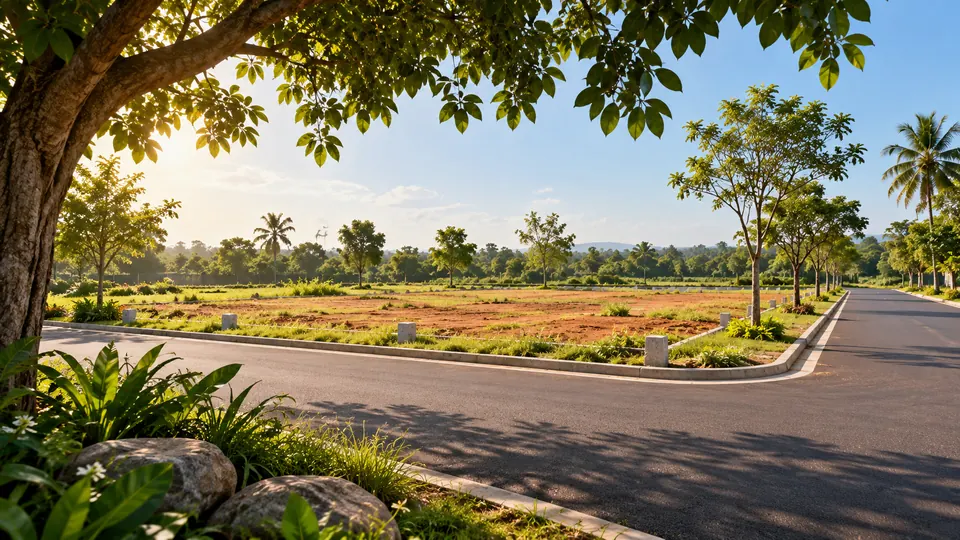
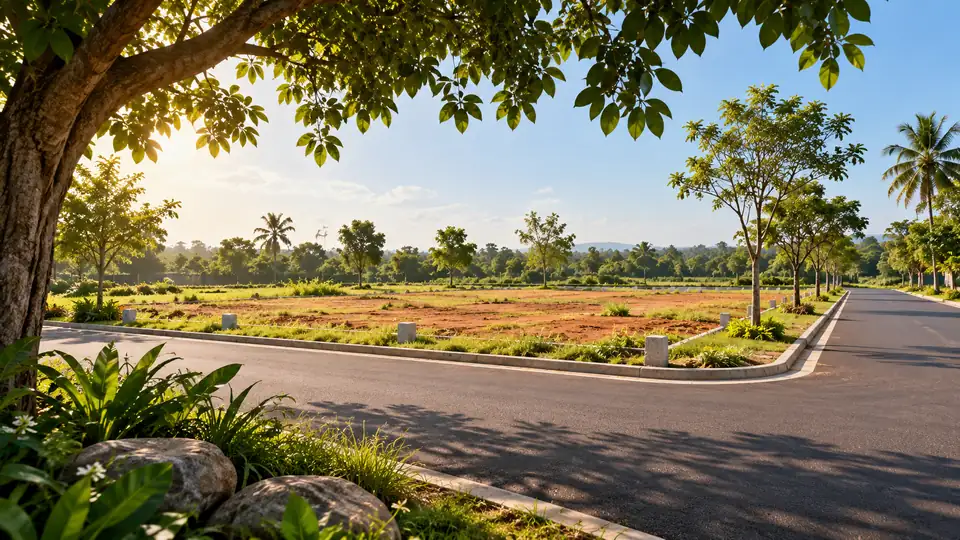
Fix stale-cache layout break and load scenes faster
- CSS/JS links carry ?v=<hash>: browsers can no longer pair new pages with an old cached stylesheet
  (this caused the giant overlapping footer headings on the live site)
- CSS/JS cached for a year since every change gets a new link
- Tiny blurred preview behind every big photo, so motion scenes appear instantly while the full image loads
- All scene photos re-encoded ~23% lighter (4.4 MB -> 3.4 MB)
- Brand splash shortened to 1 second

Claude-Session: https://claude.ai/code/session_0184qZ8PSPXvJn18ncJ8C3xT

diff --git a/index.html b/index.html
@@ -22,7 +22,7 @@
 <link rel="stylesheet" href="https://fonts.googleapis.com/css2?family=Bodoni+Moda:ital,opsz,wght@0,6..96,400;0,6..96,500;1,6..96,400&family=Manrope:wght@400;500;600&family=JetBrains+Mono:wght@400;500&family=Noto+Sans+Tamil:wght@400;500&display=swap" media="print" onload="this.media='all'">
 <noscript><link rel="stylesheet" href="https://fonts.googleapis.com/css2?family=Bodoni+Moda:ital,opsz,wght@0,6..96,400;0,6..96,500;1,6..96,400&family=Manrope:wght@400;500;600&family=JetBrains+Mono:wght@400;500&family=Noto+Sans+Tamil:wght@400;500&display=swap"></noscript>
 <script>try{if(sessionStorage.getItem("siva-in"))document.documentElement.classList.add("no-splash");sessionStorage.setItem("siva-in","1")}catch(e){}</script>
-<link rel="stylesheet" href="assets/css/main.css">
+<link rel="stylesheet" href="assets/css/main.css?v=9a428de6">
 <link rel="preload" as="image" href="assets/img/ground-960.webp" imagesrcset="assets/img/ground-960.webp 960w, assets/img/ground.webp 1536w" imagesizes="110vw" fetchpriority="high">
 
 <script type="application/ld+json">
@@ -91,11 +91,11 @@
 <section class="hero hero2 hero3" id="hero" aria-label="Introduction">
     <div class="stage">
       <div class="layer l-ground" id="lGround" aria-hidden="true"><div class="frame" style="--fx:0.500;--fy:0.528;--pfx:0.750;--pfy:0.556">
-        <img src="assets/img/ground-960.webp" srcset="assets/img/ground-960.webp 960w, assets/img/ground.webp 1536w" sizes="110vw" alt="" width="1536" height="864" fetchpriority="high">
[1 lines of base64/hex data omitted]
         <svg class="sunfx" viewBox="0 0 1280 720" preserveAspectRatio="none"><defs><radialGradient id="sunG"><stop offset="0" stop-color="#FFF4C8" stop-opacity=".95"/><stop offset=".18" stop-color="#FFC45A" stop-opacity=".55"/><stop offset="1" stop-color="#FF8A3D" stop-opacity="0"/></radialGradient></defs><circle id="sunGlow" cx="993" cy="205" r="210" fill="url(#sunG)"/></svg>
       </div></div>
       <div class="layer l-aerial" id="lAerial" aria-hidden="true"><div class="frame" style="--fx:0.500;--fy:0.556;--pfx:0.688;--pfy:0.722">
-        <img data-src="assets/img/aerial.webp" srcset="assets/img/aerial-960.webp 960w, assets/img/aerial.webp 1536w" sizes="100vw" data-srcset="assets/img/aerial-960.webp 960w, assets/img/aerial.webp 1536w" sizes="110vw" alt="" width="1536" height="864" decoding="async">
[1 lines of base64/hex data omitted]
         <svg class="survey" id="survey" viewBox="0 0 1280 720" preserveAspectRatio="none">
           <polygon id="plotC" class="bound" points="835,512 1105,592 1040,672 742,563"/>
           <polygon id="plotCfill" class="bfill" points="835,512 1105,592 1040,672 742,563"/>
@@ -106,7 +106,7 @@
         <div class="scanline" id="scan"></div>
       </div></div>
       <div class="layer l-top" id="lTop" aria-hidden="true"><div class="frame" style="--fx:0.500;--fy:0.500;--pfx:0.828;--pfy:0.750">
-        <img data-src="assets/img/topdown.webp" data-srcset="assets/img/topdown-960.webp 960w, assets/img/topdown.webp 1536w" sizes="110vw" alt="" width="1536" height="864" decoding="async">
[1 lines of base64/hex data omitted]
         <svg class="plan" id="heroPlan" viewBox="0 0 1672 941" preserveAspectRatio="none">
           <g class="plan-plots"></g>
           <g class="plan-labels"><text x="470" y="462">40 FT MAIN ROAD</text><text x="1290" y="462">40 FT MAIN ROAD</text><text x="822" y="250" transform="rotate(-90 822 250)">30 FT ROAD</text><text x="822" y="720" transform="rotate(-90 822 720)">30 FT ROAD</text></g>
@@ -213,7 +213,7 @@
   <section class="spot" id="spotlight" aria-label="Plot of the week">
     <div class="spot-stage">
       <div class="spot-media" id="spotMedia"><div class="frame" style="--fx:.547;--fy:.5;--pfx:.5;--pfy:.5">
-        <img src="assets/img/cornerpin.webp" srcset="assets/img/cornerpin-960.webp 960w, assets/img/cornerpin.webp 1536w" sizes="100vw" alt="Corner plot with granite boundary stones at a road junction, marked with a gold outline" width="1536" height="864" loading="lazy">
[1 lines of base64/hex data omitted]
         <svg class="spot-svg" viewBox="0 0 1672 941" preserveAspectRatio="none" aria-hidden="true">
           <polygon id="spotBound" points="165,190 775,58 1480,458 825,785"/>
           <g class="spot-stones"><circle cx="153" cy="187" r="9"/><circle cx="773" cy="51" r="9"/><circle cx="1491" cy="460" r="9"/><circle cx="824" cy="793" r="9"/></g>
@@ -240,7 +240,7 @@
   <section class="built" id="built" aria-label="Infrastructure in our layouts">
     <div class="built-stage">
       <div class="built-media">
-        <div class="frame" style="--fx:.547;--fy:.556;--pfx:.547;--pfy:.556"><img src="assets/img/dayroad.webp" srcset="assets/img/dayroad-960.webp 960w, assets/img/dayroad.webp 1536w" sizes="100vw" alt="A finished layout road with tar surface, street lights, avenue trees and granite boundary stones" width="1536" height="864" loading="lazy">
[1 lines of base64/hex data omitted]
         <div class="callouts"><div class="co co-r" style="--x:11.96%;--y:70.14%;--i:0"><span class="co-dot"></span><span class="co-line"></span><div class="co-card"><b>Granite boundary stones</b><span>Every corner fixed to the FMB sketch</span></div></div><div class="co co-r" style="--x:60.41%;--y:85.02%;--i:1"><span class="co-dot"></span><span class="co-line"></span><div class="co-card"><b>40 ft tar road</b><span>Laid and rolled before plots go on sale</span></div></div><div class="co co-l" style="--x:68.06%;--y:26.14%;--i:2"><span class="co-dot"></span><span class="co-line"></span><div class="co-card"><b>Street lights</b><span>On every internal road</span></div></div><div class="co co-l" style="--x:93.00%;--y:15.94%;--i:3"><span class="co-dot"></span><span class="co-line"></span><div class="co-card"><b>Avenue trees</b><span>Shade on both sides of the road</span></div></div><div class="co co-r" style="--x:36.48%;--y:68.01%;--i:4"><span class="co-dot"></span><span class="co-line"></span><div class="co-card"><b>Kerb-lined edges</b><span>Clean plot frontage, no erosion</span></div></div></div></div>
       </div>
       <div class="built-shade"></div>
@@ -256,10 +256,10 @@
     <div class="g-stage">
       <div class="wrap g-head"><p class="eyebrow">Our layouts, in every light</p><h2>Walk through <em>the land.</em></h2></div>
       <div class="g-track" id="gTrack">
-        <article class="g-card"><div class="g-img"><img src="assets/img/mistylayout.webp" alt="Gingee Hill View Plots" width="1536" height="864" loading="lazy"></div>
-          <div class="g-cap"><span class="g-n">01</span><p class="eyebrow">Dawn over the hills</p><h3>Gingee Hill View Plots</h3><p>Morning mist, the lake and the Gingee hills behind every plot.</p></div></article><article class="g-card"><div class="g-img"><img src="assets/img/parklayout.webp" alt="Sivasakthi Park Avenue" width="1536" height="864" loading="lazy"></div>
-          <div class="g-cap"><span class="g-n">02</span><p class="eyebrow">A park at the centre</p><h3>Sivasakthi Park Avenue</h3><p>Plots around a landscaped roundabout park with avenue palms.</p></div></article><article class="g-card"><div class="g-img"><img src="assets/img/stonesunset.webp" alt="Koliyanur Red Soil Plots" width="1536" height="864" loading="lazy"></div>
-          <div class="g-cap"><span class="g-n">03</span><p class="eyebrow">Stones set at sunrise</p><h3>Koliyanur Red Soil Plots</h3><p>Fresh red soil, every plot corner marked with a granite stone.</p></div></article><article class="g-card"><div class="g-img"><img src="assets/img/shadeplot.webp" alt="Valavanur Tree View Plots" width="1536" height="864" loading="lazy"></div>
[4 lines of base64/hex data omitted]
           <div class="g-cap"><span class="g-n">04</span><p class="eyebrow">Shade on the frontage</p><h3>Valavanur Tree View Plots</h3><p>Wide tar road, kerbs and full-grown trees along the plots.</p></div></article>
         <article class="g-card g-end"><div class="g-endin"><p class="eyebrow">Want to see it in person?</p><h3>We'll take you to the site this week.</h3><a class="btn gold magnetic" href="https://wa.me/919585178509?text=Hello%20Sivasakthi%20Real%20Agencies%2C%20I%20would%20like%20a%20site%20visit." target="_blank" rel="noopener">Book a site visit</a></div></article>
       </div>
@@ -269,8 +269,8 @@
   <section class="dream" id="dream" aria-label="Plan your home">
     <div class="dream-stage">
       <div class="dream-media" id="dreamMedia"><div class="frame" style="--fx:.594;--fy:.458;--pfx:.672;--pfy:.458">
-        <img class="d-base" src="assets/img/wireframe.webp" srcset="assets/img/wireframe-960.webp 960w, assets/img/wireframe.webp 1536w" sizes="100vw" alt="" width="1536" height="864" loading="lazy" aria-hidden="true">
-        <img class="d-lit" id="dreamLit" src="assets/img/wireframe.webp" srcset="assets/img/wireframe-960.webp 960w, assets/img/wireframe.webp 1536w" sizes="100vw" alt="A plot with a glowing outline of a two-storey home drawn on it" width="1536" height="864" loading="lazy">
[2 lines of base64/hex data omitted]
         <svg class="dream-svg" viewBox="0 0 1672 941" preserveAspectRatio="none" aria-hidden="true">
           <g class="dl" style="--i:0"><circle cx="1110" cy="250" r="6"/><line x1="1110" y1="250" x2="1280" y2="170"/><text x="1290" y="166">SAMPLE HOME</text><text x="1290" y="192">2 FLOORS · 2,400 SQ.FT</text></g>
           <g class="dl" style="--i:1"><circle cx="700" cy="560" r="6"/><line x1="700" y1="560" x2="800" y2="690"/><text x="810" y="712">YOUR PLOT · 40 × 60 FT</text></g>
@@ -288,7 +288,7 @@
   </section>
   <section class="block docs" aria-label="Land document checklist">
     <div class="wrap docs-grid">
-      <figure class="docs-img"><img src="assets/img/stoneclose.webp" alt="Granite boundary stone set in fresh soil at the corner of a plot" loading="lazy"><figcaption>Boundary stone, plot B-01</figcaption></figure>
[1 lines of base64/hex data omitted]
       <div>
         <p class="eyebrow">Before we list or buy any land</p>
         <h2 style="margin-top:16px">Eight papers. <em>Every time.</em></h2>
@@ -307,7 +307,7 @@
     </div>
   </section>
   <section class="inside" aria-label="Why land">
-    <div class="bg" id="insideBg"><img src="assets/img/wetroad.webp" alt="Wet layout road after monsoon rain, lit by garden lights at dusk" loading="lazy"></div>
[1 lines of base64/hex data omitted]
     <canvas id="rain2" aria-hidden="true"></canvas>
     <div class="veil"></div>
     <div class="wrap">
@@ -326,7 +326,7 @@
         <p class="lede">Free site visit and valuation for plots, farm land and houses around Villupuram.</p>
         <a class="btn gold magnetic" href="sell.html" style="justify-self:start">Get a free valuation <svg viewBox="0 0 24 24" fill="none" stroke="currentColor" stroke-width="1.6" aria-hidden="true"><path d="M5 12h14M13 6l6 6-6 6"/></svg></a>
       </div>
-      <figure><img src="assets/img/stonesunset.webp" alt="Plots marked with boundary stones at sunrise" loading="lazy" width="1600" height="900"></figure>
[1 lines of base64/hex data omitted]
     </div></div>
   </section>
   <section class="block office" id="contact" aria-label="Visit or call">
@@ -349,7 +349,7 @@
     </div>
   </section>
   <section class="block closing night-close">
-    <div class="bgc night" aria-hidden="true"><img src="assets/img/nightlayout.webp" srcset="assets/img/nightlayout-960.webp 960w, assets/img/nightlayout.webp 1536w" sizes="100vw" alt="" loading="lazy" width="1536" height="864"><canvas id="nightFx"></canvas></div>
[1 lines of base64/hex data omitted]
     <div class="wrap">
       <p lang="ta" class="eyebrow ta" style="letter-spacing:.04em;text-transform:none;font-size:.95rem">வீடு · மனை · நிலம் — வாங்க, விற்க அணுகவும்</p>
       <h2>Your land, <em>handled.</em></h2>
@@ -378,10 +378,10 @@
 <a class="wa" href="https://wa.me/919585178509" target="_blank" rel="noopener" aria-label="Chat on WhatsApp">
   <svg viewBox="0 0 24 24" fill="currentColor"><path d="M12 2a10 10 0 0 0-8.6 15.1L2 22l5-1.3A10 10 0 1 0 12 2Zm0 18.2a8.2 8.2 0 0 1-4.2-1.1l-.3-.2-3 .8.8-2.9-.2-.3A8.2 8.2 0 1 1 12 20.2Zm4.5-6.1c-.2-.1-1.5-.7-1.7-.8s-.4-.1-.6.1-.6.8-.8 1-.3.2-.5.1a6.7 6.7 0 0 1-3.3-2.9c-.3-.4.3-.4.8-1.4a.5.5 0 0 0 0-.5l-.8-1.8c-.2-.5-.4-.4-.6-.4h-.5a1 1 0 0 0-.7.3 3 3 0 0 0-.9 2.2 5.2 5.2 0 0 0 1.1 2.8 11.9 11.9 0 0 0 4.6 4c1.7.7 2.3.8 3.2.7a2.7 2.7 0 0 0 1.8-1.3 2.2 2.2 0 0 0 .1-1.3c0-.1-.2-.2-.5-.3Z"/></svg>
 </a>
-<script src="assets/js/data.js" defer></script>
-<script src="assets/js/core.js" defer></script>
-<script src="assets/js/hero.js" defer></script>
-<script src="assets/js/scenes.js" defer></script>
-<script src="assets/js/offers.js" defer></script>
+<script src="assets/js/data.js?v=fbedc2b7" defer></script>
+<script src="assets/js/core.js?v=46c4fe64" defer></script>
+<script src="assets/js/hero.js?v=29b42697" defer></script>
+<script src="assets/js/scenes.js?v=5e03a516" defer></script>
+<script src="assets/js/offers.js?v=01bc236b" defer></script>
 </body>
 </html>

diff --git a/contact.html b/contact.html
@@ -22,7 +22,7 @@
 <link rel="stylesheet" href="https://fonts.googleapis.com/css2?family=Bodoni+Moda:ital,opsz,wght@0,6..96,400;0,6..96,500;1,6..96,400&family=Manrope:wght@400;500;600&family=JetBrains+Mono:wght@400;500&family=Noto+Sans+Tamil:wght@400;500&display=swap" media="print" onload="this.media='all'">
 <noscript><link rel="stylesheet" href="https://fonts.googleapis.com/css2?family=Bodoni+Moda:ital,opsz,wght@0,6..96,400;0,6..96,500;1,6..96,400&family=Manrope:wght@400;500;600&family=JetBrains+Mono:wght@400;500&family=Noto+Sans+Tamil:wght@400;500&display=swap"></noscript>
 <script>try{if(sessionStorage.getItem("siva-in"))document.documentElement.classList.add("no-splash");sessionStorage.setItem("siva-in","1")}catch(e){}</script>
-<link rel="stylesheet" href="assets/css/main.css">
+<link rel="stylesheet" href="assets/css/main.css?v=9a428de6">
 
 
 <script type="application/ld+json">
@@ -89,7 +89,7 @@
 </div>
 <main id="main">
 <section class="page-hero">
-  <div class="bg"><img src="assets/img/mistylayout.webp" alt="Aerial view of plots with misty hills and a lake at dawn" width="1600" height="900" fetchpriority="high"></div>
[1 lines of base64/hex data omitted]
   <canvas aria-hidden="true"></canvas>
   <div class="wrap">
     <p class="crumbs"><a href="index.html">Home</a><span aria-hidden="true">/</span><span>Contact</span></p>
@@ -107,7 +107,7 @@
   </section>
   <section class="block" style="padding-top:0" aria-label="Questions"><div class="wrap"><div class="head"><div><p class="eyebrow">Questions buyers ask</p><h2>Before you <em>buy land.</em></h2></div></div><div class="faq"><details><summary>What does DTCP approved mean?</summary><p>The layout has been approved by the Directorate of Town and Country Planning, Tamil Nadu. Roads, open space and plot sizes follow the rules, and banks give loans on approved plots more easily.</p></details><details><summary>Which documents should I check before buying land?</summary><p>Patta and chitta, Adangal or A-register, FMB sketch, a 30-year encumbrance certificate, the chain of parent sale deeds, and the layout approval number. We share copies of all of these before your site visit.</p></details><details><summary>Can I get a bank loan for a plot?</summary><p>Most banks give plot loans on DTCP or RERA approved plots with a clear title. Use the EMI calculator on the land page to plan, and we can help you with the paperwork.</p></details><details><summary>Do you help people sell their land?</summary><p>Yes. We visit the land, give a fair valuation based on recent registrations nearby, check your documents, and bring you serious buyers until registration is done.</p></details><details><summary>Can I see the land before paying anything?</summary><p>Yes. Call or WhatsApp us and we will fix a site visit. You see the land and the documents before any booking amount.</p></details></div></div></section>
   <section class="block closing night-close">
-    <div class="bgc night" aria-hidden="true"><img src="assets/img/nightlayout.webp" srcset="assets/img/nightlayout-960.webp 960w, assets/img/nightlayout.webp 1536w" sizes="100vw" alt="" loading="lazy" width="1536" height="864"><canvas id="nightFx"></canvas></div>
[1 lines of base64/hex data omitted]
     <div class="wrap">
       <p lang="ta" class="eyebrow ta" style="letter-spacing:.04em;text-transform:none;font-size:.95rem">வீடு · மனை · நிலம் — வாங்க, விற்க அணுகவும்</p>
       <h2>Your land, <em>handled.</em></h2>
@@ -136,8 +136,8 @@
 <a class="wa" href="https://wa.me/919585178509" target="_blank" rel="noopener" aria-label="Chat on WhatsApp">
   <svg viewBox="0 0 24 24" fill="currentColor"><path d="M12 2a10 10 0 0 0-8.6 15.1L2 22l5-1.3A10 10 0 1 0 12 2Zm0 18.2a8.2 8.2 0 0 1-4.2-1.1l-.3-.2-3 .8.8-2.9-.2-.3A8.2 8.2 0 1 1 12 20.2Zm4.5-6.1c-.2-.1-1.5-.7-1.7-.8s-.4-.1-.6.1-.6.8-.8 1-.3.2-.5.1a6.7 6.7 0 0 1-3.3-2.9c-.3-.4.3-.4.8-1.4a.5.5 0 0 0 0-.5l-.8-1.8c-.2-.5-.4-.4-.6-.4h-.5a1 1 0 0 0-.7.3 3 3 0 0 0-.9 2.2 5.2 5.2 0 0 0 1.1 2.8 11.9 11.9 0 0 0 4.6 4c1.7.7 2.3.8 3.2.7a2.7 2.7 0 0 0 1.8-1.3 2.2 2.2 0 0 0 .1-1.3c0-.1-.2-.2-.5-.3Z"/></svg>
 </a>
-<script src="assets/js/data.js" defer></script>
-<script src="assets/js/core.js" defer></script>
+<script src="assets/js/data.js?v=fbedc2b7" defer></script>
+<script src="assets/js/core.js?v=46c4fe64" defer></script>
 <script type="application/ld+json">{"@context": "https://schema.org", "@type": "FAQPage", "mainEntity": [{"@type": "Question", "name": "What does DTCP approved mean?", "acceptedAnswer": {"@type": "Answer", "text": "The layout has been approved by the Directorate of Town and Country Planning, Tamil Nadu. Roads, open space and plot sizes follow the rules, and banks give loans on approved plots more easily."}}, {"@type": "Question", "name": "Which documents should I check before buying land?", "acceptedAnswer": {"@type": "Answer", "text": "Patta and chitta, Adangal or A-register, FMB sketch, a 30-year encumbrance certificate, the chain of parent sale deeds, and the layout approval number. We share copies of all of these before your site visit."}}, {"@type": "Question", "name": "Can I get a bank loan for a plot?", "acceptedAnswer": {"@type": "Answer", "text": "Most banks give plot loans on DTCP or RERA approved plots with a clear title. Use the EMI calculator on the land page to plan, and we can help you with the paperwork."}}, {"@type": "Question", "name": "Do you help people sell their land?", "acceptedAnswer": {"@type": "Answer", "text": "Yes. We visit the land, give a fair valuation based on recent registrations nearby, check your documents, and bring you serious buyers until registration is done."}}, {"@type": "Question", "name": "Can I see the land before paying anything?", "acceptedAnswer": {"@type": "Answer", "text": "Yes. Call or WhatsApp us and we will fix a site visit. You see the land and the documents before any booking amount."}}]}</script>
 </body>
 </html>

diff --git a/properties.html b/properties.html
@@ -22,7 +22,7 @@
 <link rel="stylesheet" href="https://fonts.googleapis.com/css2?family=Bodoni+Moda:ital,opsz,wght@0,6..96,400;0,6..96,500;1,6..96,400&family=Manrope:wght@400;500;600&family=JetBrains+Mono:wght@400;500&family=Noto+Sans+Tamil:wght@400;500&display=swap" media="print" onload="this.media='all'">
 <noscript><link rel="stylesheet" href="https://fonts.googleapis.com/css2?family=Bodoni+Moda:ital,opsz,wght@0,6..96,400;0,6..96,500;1,6..96,400&family=Manrope:wght@400;500;600&family=JetBrains+Mono:wght@400;500&family=Noto+Sans+Tamil:wght@400;500&display=swap"></noscript>
 <script>try{if(sessionStorage.getItem("siva-in"))document.documentElement.classList.add("no-splash");sessionStorage.setItem("siva-in","1")}catch(e){}</script>
-<link rel="stylesheet" href="assets/css/main.css">
+<link rel="stylesheet" href="assets/css/main.css?v=9a428de6">
 
 
 <script type="application/ld+json">
@@ -89,7 +89,7 @@
 </div>
 <main id="main">
 <section class="page-hero">
-  <div class="bg"><img src="assets/img/aerial.webp" alt="Aerial view of a plot layout with tar roads and palm trees at sunrise" width="1600" height="900" fetchpriority="high"></div>
[1 lines of base64/hex data omitted]
   <canvas aria-hidden="true"></canvas>
   <div class="wrap">
     <p class="crumbs"><a href="index.html">Home</a><span aria-hidden="true">/</span><span>Land for sale</span></p>
@@ -125,7 +125,7 @@
       </div>
       <div class="plan-grid">
         <div class="plan-stage" id="planStage">
-          <img src="assets/img/topdown.webp" alt="Top-down drone view of plots around a road junction" width="1536" height="864" loading="lazy">
[1 lines of base64/hex data omitted]
           <svg class="plan" id="planSvg" viewBox="0 0 1672 941" preserveAspectRatio="none" role="group" aria-label="Plots on the layout plan">
             <g class="plan-plots"></g>
             <g class="plan-labels"><text x="300" y="462">40 FT MAIN ROAD</text><text x="1290" y="462">40 FT MAIN ROAD</text><text x="822" y="250" transform="rotate(-90 822 250)">30 FT ROAD</text></g>
@@ -192,7 +192,7 @@
   </section>
   <section class="block" style="padding-top:0" aria-label="Questions"><div class="wrap"><div class="head"><div><p class="eyebrow">Questions buyers ask</p><h2>Before you <em>buy land.</em></h2></div></div><div class="faq"><details><summary>What does DTCP approved mean?</summary><p>The layout has been approved by the Directorate of Town and Country Planning, Tamil Nadu. Roads, open space and plot sizes follow the rules, and banks give loans on approved plots more easily.</p></details><details><summary>Which documents should I check before buying land?</summary><p>Patta and chitta, Adangal or A-register, FMB sketch, a 30-year encumbrance certificate, the chain of parent sale deeds, and the layout approval number. We share copies of all of these before your site visit.</p></details><details><summary>Can I get a bank loan for a plot?</summary><p>Most banks give plot loans on DTCP or RERA approved plots with a clear title. Use the EMI calculator on the land page to plan, and we can help you with the paperwork.</p></details><details><summary>Do you help people sell their land?</summary><p>Yes. We visit the land, give a fair valuation based on recent registrations nearby, check your documents, and bring you serious buyers until registration is done.</p></details><details><summary>Can I see the land before paying anything?</summary><p>Yes. Call or WhatsApp us and we will fix a site visit. You see the land and the documents before any booking amount.</p></details></div></div></section>
   <section class="block closing night-close">
-    <div class="bgc night" aria-hidden="true"><img src="assets/img/nightlayout.webp" srcset="assets/img/nightlayout-960.webp 960w, assets/img/nightlayout.webp 1536w" sizes="100vw" alt="" loading="lazy" width="1536" height="864"><canvas id="nightFx"></canvas></div>
[1 lines of base64/hex data omitted]
     <div class="wrap">
       <p lang="ta" class="eyebrow ta" style="letter-spacing:.04em;text-transform:none;font-size:.95rem">வீடு · மனை · நிலம் — வாங்க, விற்க அணுகவும்</p>
       <h2>Your land, <em>handled.</em></h2>
@@ -221,9 +221,9 @@
 <a class="wa" href="https://wa.me/919585178509" target="_blank" rel="noopener" aria-label="Chat on WhatsApp">
   <svg viewBox="0 0 24 24" fill="currentColor"><path d="M12 2a10 10 0 0 0-8.6 15.1L2 22l5-1.3A10 10 0 1 0 12 2Zm0 18.2a8.2 8.2 0 0 1-4.2-1.1l-.3-.2-3 .8.8-2.9-.2-.3A8.2 8.2 0 1 1 12 20.2Zm4.5-6.1c-.2-.1-1.5-.7-1.7-.8s-.4-.1-.6.1-.6.8-.8 1-.3.2-.5.1a6.7 6.7 0 0 1-3.3-2.9c-.3-.4.3-.4.8-1.4a.5.5 0 0 0 0-.5l-.8-1.8c-.2-.5-.4-.4-.6-.4h-.5a1 1 0 0 0-.7.3 3 3 0 0 0-.9 2.2 5.2 5.2 0 0 0 1.1 2.8 11.9 11.9 0 0 0 4.6 4c1.7.7 2.3.8 3.2.7a2.7 2.7 0 0 0 1.8-1.3 2.2 2.2 0 0 0 .1-1.3c0-.1-.2-.2-.5-.3Z"/></svg>
 </a>
-<script src="assets/js/data.js" defer></script>
-<script src="assets/js/core.js" defer></script>
-<script src="assets/js/plan.js" defer></script>
-<script src="assets/js/offers.js" defer></script>
+<script src="assets/js/data.js?v=fbedc2b7" defer></script>
+<script src="assets/js/core.js?v=46c4fe64" defer></script>
+<script src="assets/js/plan.js?v=f4c4b4cc" defer></script>
+<script src="assets/js/offers.js?v=01bc236b" defer></script>
 </body>
 </html>

diff --git a/sell.html b/sell.html
@@ -22,7 +22,7 @@
 <link rel="stylesheet" href="https://fonts.googleapis.com/css2?family=Bodoni+Moda:ital,opsz,wght@0,6..96,400;0,6..96,500;1,6..96,400&family=Manrope:wght@400;500;600&family=JetBrains+Mono:wght@400;500&family=Noto+Sans+Tamil:wght@400;500&display=swap" media="print" onload="this.media='all'">
 <noscript><link rel="stylesheet" href="https://fonts.googleapis.com/css2?family=Bodoni+Moda:ital,opsz,wght@0,6..96,400;0,6..96,500;1,6..96,400&family=Manrope:wght@400;500;600&family=JetBrains+Mono:wght@400;500&family=Noto+Sans+Tamil:wght@400;500&display=swap"></noscript>
 <script>try{if(sessionStorage.getItem("siva-in"))document.documentElement.classList.add("no-splash");sessionStorage.setItem("siva-in","1")}catch(e){}</script>
-<link rel="stylesheet" href="assets/css/main.css">
+<link rel="stylesheet" href="assets/css/main.css?v=9a428de6">
 
 
 <script type="application/ld+json">
@@ -89,7 +89,7 @@
 </div>
 <main id="main">
 <section class="page-hero">
-  <div class="bg"><img src="assets/img/stonesunset.webp" alt="Plots marked with granite stones at sunrise" width="1600" height="900" fetchpriority="high"></div>
[1 lines of base64/hex data omitted]
   <canvas aria-hidden="true"></canvas>
   <div class="wrap">
     <p class="crumbs"><a href="index.html">Home</a><span aria-hidden="true">/</span><span>Sell land</span></p>
@@ -131,7 +131,7 @@
   </section>
   <section class="block docs" aria-label="Land document checklist">
     <div class="wrap docs-grid">
-      <figure class="docs-img"><img src="assets/img/stoneclose.webp" alt="Granite boundary stone set in fresh soil at the corner of a plot" loading="lazy"><figcaption>Boundary stone, plot B-01</figcaption></figure>
[1 lines of base64/hex data omitted]
       <div>
         <p class="eyebrow">Before we list or buy any land</p>
         <h2 style="margin-top:16px">Eight papers. <em>Every time.</em></h2>
@@ -186,7 +186,7 @@
 <a class="wa" href="https://wa.me/919585178509" target="_blank" rel="noopener" aria-label="Chat on WhatsApp">
   <svg viewBox="0 0 24 24" fill="currentColor"><path d="M12 2a10 10 0 0 0-8.6 15.1L2 22l5-1.3A10 10 0 1 0 12 2Zm0 18.2a8.2 8.2 0 0 1-4.2-1.1l-.3-.2-3 .8.8-2.9-.2-.3A8.2 8.2 0 1 1 12 20.2Zm4.5-6.1c-.2-.1-1.5-.7-1.7-.8s-.4-.1-.6.1-.6.8-.8 1-.3.2-.5.1a6.7 6.7 0 0 1-3.3-2.9c-.3-.4.3-.4.8-1.4a.5.5 0 0 0 0-.5l-.8-1.8c-.2-.5-.4-.4-.6-.4h-.5a1 1 0 0 0-.7.3 3 3 0 0 0-.9 2.2 5.2 5.2 0 0 0 1.1 2.8 11.9 11.9 0 0 0 4.6 4c1.7.7 2.3.8 3.2.7a2.7 2.7 0 0 0 1.8-1.3 2.2 2.2 0 0 0 .1-1.3c0-.1-.2-.2-.5-.3Z"/></svg>
 </a>
-<script src="assets/js/data.js" defer></script>
-<script src="assets/js/core.js" defer></script>
+<script src="assets/js/data.js?v=fbedc2b7" defer></script>
+<script src="assets/js/core.js?v=46c4fe64" defer></script>
 </body>
 </html>

diff --git a/assets/css/main.css b/assets/css/main.css
@@ -620,7 +620,7 @@ footer .fh{margin:0 0 6px;font:500 .72rem var(--mono);letter-spacing:.16em;text-
 #sunGlow{transform-box:fill-box;transform-origin:center;animation:sunPulse 4.5s ease-in-out infinite}
 @keyframes sunPulse{0%,100%{transform:scale(1)}50%{transform:scale(1.07)}}
 /* brand splash: first visit in a session only, pure CSS so it never holds the page back */
-.splash{position:fixed;inset:0;z-index:200;display:grid;place-items:center;background:radial-gradient(80% 60% at 50% 45%,#13213B 0%,#060A13 70%);animation:spOut .55s cubic-bezier(.7,0,.3,1) 1.45s forwards;pointer-events:none}
+.splash{position:fixed;inset:0;z-index:200;display:grid;place-items:center;background:radial-gradient(80% 60% at 50% 45%,#13213B 0%,#060A13 70%);animation:spOut .45s cubic-bezier(.7,0,.3,1) 1s forwards;pointer-events:none}
 .no-splash .splash{display:none}
 .sp-in{display:grid;justify-items:center;gap:6px;text-align:center}
 .sp-in img{width:96px;height:auto;margin-bottom:10px;animation:spUp .8s cubic-bezier(.16,1,.3,1) both}
@@ -628,15 +628,15 @@ footer .fh{margin:0 0 6px;font:500 .72rem var(--mono);letter-spacing:.16em;text-
 .sp-sub{font-family:var(--mono);font-size:.72rem;letter-spacing:.42em;color:#FFD21F;padding-left:.42em;animation:spUp .8s .16s cubic-bezier(.16,1,.3,1) both}
 .sp-ta{font-family:var(--tamil);font-size:.86rem;color:#8F9BB2;margin-top:6px;animation:spUp .8s .24s cubic-bezier(.16,1,.3,1) both}
 .sp-bar{display:block;width:140px;height:1px;margin-top:18px;background:rgba(255,210,31,.18);position:relative;overflow:hidden}
-.sp-bar::after{content:"";position:absolute;inset:0;background:#FFD21F;transform:scaleX(0);transform-origin:left;animation:spBar 1.3s cubic-bezier(.6,0,.2,1) .1s forwards}
+.sp-bar::after{content:"";position:absolute;inset:0;background:#FFD21F;transform:scaleX(0);transform-origin:left;animation:spBar .85s cubic-bezier(.6,0,.2,1) .1s forwards}
 @keyframes spUp{from{opacity:0;transform:translateY(14px)}to{opacity:1;transform:none}}
 @keyframes spBar{to{transform:scaleX(1)}}
 @keyframes spOut{to{opacity:0;visibility:hidden;transform:scale(1.03)}}
 /* hero headline waits for the splash to lift */
-html:not(.no-splash) .intro-line>span{animation-delay:1.45s}
-html:not(.no-splash) .intro-line:nth-child(3)>span{animation-delay:1.53s}
-html:not(.no-splash) .intro-line:nth-child(4)>span{animation-delay:1.61s}
-html:not(.no-splash) .intro-fade{animation-delay:1.7s}
+html:not(.no-splash) .intro-line>span{animation-delay:1s}
+html:not(.no-splash) .intro-line:nth-child(3)>span{animation-delay:1.08s}
+html:not(.no-splash) .intro-line:nth-child(4)>span{animation-delay:1.16s}
+html:not(.no-splash) .intro-fade{animation-delay:1.25s}
 @media (prefers-reduced-motion:reduce){.splash{animation-delay:.6s;animation-duration:.3s}.sp-in>*{animation:none}.sp-bar::after{animation:none;transform:none}}
 @media (max-width:760px){footer{padding-bottom:calc(96px + env(safe-area-inset-bottom,0px))}}
 /* laptop fit: stage labels only where there is room beside the headline */

diff --git a/404.html b/404.html
@@ -22,7 +22,7 @@
 <link rel="stylesheet" href="https://fonts.googleapis.com/css2?family=Bodoni+Moda:ital,opsz,wght@0,6..96,400;0,6..96,500;1,6..96,400&family=Manrope:wght@400;500;600&family=JetBrains+Mono:wght@400;500&family=Noto+Sans+Tamil:wght@400;500&display=swap" media="print" onload="this.media='all'">
 <noscript><link rel="stylesheet" href="https://fonts.googleapis.com/css2?family=Bodoni+Moda:ital,opsz,wght@0,6..96,400;0,6..96,500;1,6..96,400&family=Manrope:wght@400;500;600&family=JetBrains+Mono:wght@400;500&family=Noto+Sans+Tamil:wght@400;500&display=swap"></noscript>
 <script>try{if(sessionStorage.getItem("siva-in"))document.documentElement.classList.add("no-splash");sessionStorage.setItem("siva-in","1")}catch(e){}</script>
-<link rel="stylesheet" href="assets/css/main.css">
+<link rel="stylesheet" href="assets/css/main.css?v=9a428de6">
 
 <base href="/">
 <script type="application/ld+json">
@@ -110,7 +110,7 @@
 <a class="wa" href="https://wa.me/919585178509" target="_blank" rel="noopener" aria-label="Chat on WhatsApp">
   <svg viewBox="0 0 24 24" fill="currentColor"><path d="M12 2a10 10 0 0 0-8.6 15.1L2 22l5-1.3A10 10 0 1 0 12 2Zm0 18.2a8.2 8.2 0 0 1-4.2-1.1l-.3-.2-3 .8.8-2.9-.2-.3A8.2 8.2 0 1 1 12 20.2Zm4.5-6.1c-.2-.1-1.5-.7-1.7-.8s-.4-.1-.6.1-.6.8-.8 1-.3.2-.5.1a6.7 6.7 0 0 1-3.3-2.9c-.3-.4.3-.4.8-1.4a.5.5 0 0 0 0-.5l-.8-1.8c-.2-.5-.4-.4-.6-.4h-.5a1 1 0 0 0-.7.3 3 3 0 0 0-.9 2.2 5.2 5.2 0 0 0 1.1 2.8 11.9 11.9 0 0 0 4.6 4c1.7.7 2.3.8 3.2.7a2.7 2.7 0 0 0 1.8-1.3 2.2 2.2 0 0 0 .1-1.3c0-.1-.2-.2-.5-.3Z"/></svg>
 </a>
-<script src="assets/js/data.js" defer></script>
-<script src="assets/js/core.js" defer></script>
+<script src="assets/js/data.js?v=fbedc2b7" defer></script>
+<script src="assets/js/core.js?v=46c4fe64" defer></script>
 </body>
 </html>
